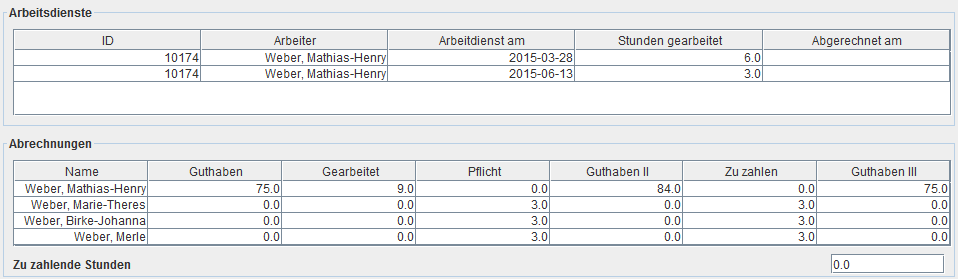
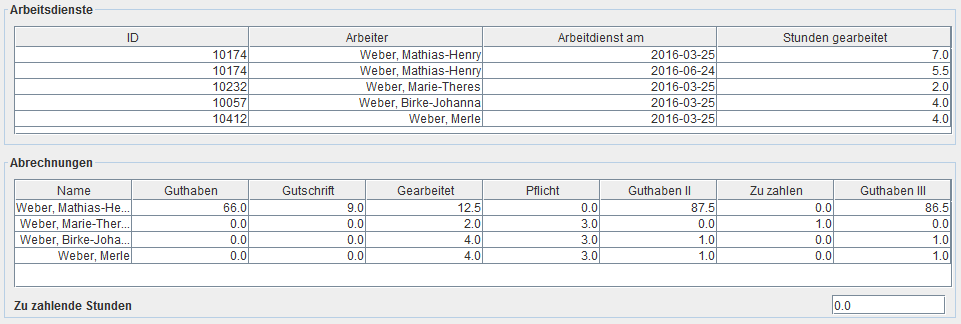
23: Ausgleich- und Korrekturmöglichkeiten: Dokumentation erstellt
Task-Url: http://syniphos/mantisbt/view.php?id=23

Changed region(s): [[0.0, 0.0, 0.999, 0.4588], [0.0, 0.4875, 0.999, 1.0]]

diff --git a/html/usermanual.html b/html/usermanual.html
@@ -462,15 +462,19 @@ body.book #toc,body.book #preamble,body.book h1.sect0,body.book .sect1>h2{page-b
 <li><a href="#_verwaltung_der_arbeitsdienste">5.3. Verwaltung der Arbeitsdienste</a>
 <ul class="sectlevel3">
 <li><a href="#_erfassung_von_arbeitsdienststunden">5.3.1. Erfassung von Arbeitsdienststunden</a></li>
-<li><a href="#_abschluss_eines_abrechnungszeitraumes">5.3.2. Abschluss eines Abrechnungszeitraumes</a></li>
+<li><a href="#_erfassung_von_gutschriften">5.3.2. Erfassung von Gutschriften</a></li>
+<li><a href="#_abschluss_eines_abrechnungszeitraumes">5.3.3. Abschluss eines Abrechnungszeitraumes</a></li>
 </ul>
 </li>
+<li><a href="#_log_ausgaben">5.4. Log-Ausgaben</a></li>
+<li><a href="#_automatisches_update">5.5. Automatisches Update[]</a></li>
 </ul>
 </li>
 <li><a href="#_mögliche_probleme">6. Mögliche Probleme</a>
 <ul class="sectlevel2">
 <li><a href="#_exception_es_läuft_schon_eine_andere_applikation">6.1. Exception "Es läuft schon eine andere Applikation"</a></li>
 <li><a href="#_fehlerhafte_anzeige_von_umlauten">6.2. Fehlerhafte Anzeige von Umlauten</a></li>
+<li><a href="#_programm_update">6.3. Programm-Update</a></li>
 </ul>
 </li>
 </ul>
@@ -673,13 +677,17 @@ Quelldateien:</p>
 angelegt wird, wenn damit begonnen wird, den Abrechnungszeitraum zu
 bearbeiten.</p>
 </dd>
-<dt class="hdlist1">Guthaben.csv (bzw. Guthaben_old.csv)</dt>
+<dt class="hdlist1">(<mark>veraltet</mark>)Guthaben.csv (bzw. Guthaben_old.csv) </dt>
 <dd>
 <p>Beide Dateien sind eine Kopie der Datei "Guthaben.csv" aus dem
 Ordner der vorangegangenen Abrechnungsperiode.
 Bei der Erzeugung der Kopie ohne das Suffix "_old" wird dafür Sorge
 getragen, dass das in der vorherigen Periode errechnete Endguthaben
 für die neue Periode als Anfangsguthaben markiert wird.</p>
+</dd>
+<dt class="hdlist1">GuthabenVerlauf.csv</dt>
+<dd>
+<p>Diese Datei enthält die gesamte Geschichte des Guthabenverlaufes aller Mitglieder.</p>
 </dd>
 <dt class="hdlist1">Arbeitsdienste.csv (bzw. Arbeitsdienste_old.csv)</dt>
 <dd>
@@ -720,11 +728,15 @@ lesend zugegriffen werden.</p>
 </div>
 <div class="dlist">
 <dl>
-<dt class="hdlist1">Guthaben.csv</dt>
+<dt class="hdlist1">(<em>veraltet</em>: Guthaben.csv) GuthabenVerlauf.csv </dt>
 <dd>
 <p>Hier werden die nach Hinzufügen der im Abrechnungszeitraum
 geleisteten Arbeitsdienststunden und Abzug der Pflichtstunden die
 verbleibenden bzw- erwirtschafteten Guthabenstunden hinterlegt.</p>
+</dd>
+<dt class="hdlist1">Guschriften.csv</dt>
+<dd>
+<p>Dies ist eine Liste mit allen Mitgliedern, denen im betreffenden Abrechnungszeitraum eine Gutschrift in Form von Arbeitsstunden wegen früherer Fehlbuchungen gewährt worden ist.</p>
 </dd>
 <dt class="hdlist1">ZuZahlendeStunden.csv</dt>
 <dd>
@@ -799,7 +811,7 @@ Daten einer  abgeschlossenen Periode können nicht mehr verändert werden!</p>
 </div>
 <div class="imageblock" style="text-align: center">
 <div class="content">
-<img src="images/App-Titelleiste.png" alt="App Titelleiste">
+<img src="images/images/App-Titelleiste.png" alt="App Titelleiste">
 </div>
 <div class="title">Abbildung 7. Titelleiste</div>
 </div>
@@ -897,7 +909,7 @@ Daten einer  abgeschlossenen Periode können nicht mehr verändert werden!</p>
 </div>
 <div class="imageblock" style="text-align: center">
 <div class="content">
-<img src="images/App-0-Abrechnungsbereich.png" alt="App 0 Abrechnungsbereich">
+<img src="images/images/App-0-Abrechnungsbereich.png" alt="App 0 Abrechnungsbereich">
 </div>
 <div class="title">Abbildung 10. Abrechnungsbereich</div>
 </div>
@@ -913,6 +925,10 @@ Daten einer  abgeschlossenen Periode können nicht mehr verändert werden!</p>
 <dd>
 <p>Summe der Stunden, die das Mitglied aus der Vergangenheit als Guthaben mit in den Abrechnungszeitraum einbringt.</p>
 </dd>
+<dt class="hdlist1">Gutschrift</dt>
+<dd>
+<p>In diesem Abrechnungszeitraum gutgeschriebene Stunden (aufgrund früherer Fehlbuchungen)</p>
+</dd>
 <dt class="hdlist1">Gearbeitet</dt>
 <dd>
 <p>Summe der Stunden, die das Mitglied innerhalb des Abrechnungszeitraums Arbeitsdienst geleistet hat.</p>
@@ -923,7 +939,7 @@ Daten einer  abgeschlossenen Periode können nicht mehr verändert werden!</p>
 </dd>
 <dt class="hdlist1">Guthaben II</dt>
 <dd>
-<p>Summe aus der Spalte <mark>Guthaben</mark> und der Spalte <mark>Gearbeitet</mark> des betreffenden Mitglieds.</p>
+<p>Summe aus den Spalten <mark>Guthaben</mark>, <mark>Gutschrift</mark> und <mark>Gearbeitet</mark> des betreffenden Mitglieds.</p>
 </dd>
 <dt class="hdlist1">Zu zahlen</dt>
 <dd>
@@ -986,7 +1002,7 @@ Alle dann folgenden Berechnungen werden ab dann basierend auf dem Stand der neue
 </div>
 <div class="imageblock" style="text-align: center">
 <div class="content">
-<img src="images/AppAD-0.png" alt="AppAD 0">
+<img src="images/images/AppAD-0.png" alt="AppAD 0">
 </div>
 <div class="title">Abbildung 12. Fenster "Arbeitsdienste"</div>
 </div>
@@ -1078,7 +1094,28 @@ Die neu erfassten Daten sind bis zu diesem Punkt nur auf dem lokalen Rechner ges
 </div>
 </div>
 <div class="sect3">
-<h4 id="_abschluss_eines_abrechnungszeitraumes"><a class="anchor" href="#_abschluss_eines_abrechnungszeitraumes"></a>5.3.2. Abschluss eines Abrechnungszeitraumes</h4>
+<h4 id="_erfassung_von_gutschriften"><a class="anchor" href="#_erfassung_von_gutschriften"></a>5.3.2. Erfassung von Gutschriften</h4>
+<div class="paragraph">
+<p>Wenn festgestellt worden ist, dass bei einem Mitglied in der Vergangenheit ein Fehler in der Berechnung bzw. Abbuchung vorlag, besteht die Möglichkeit, Gutschriften zu erfassen. Eine Gutschrift erfolgt in Stunden.</p>
+</div>
+<div class="paragraph">
+<p>Die Erfassung von Gutschriften ist praktisch identisch mit der der Arbeitsstunden.</p>
+</div>
+<div class="imageblock" style="text-align: center">
+<div class="content">
+<img src="images/AppGS-0-neu.png" alt="AppGS 0 neu">
+</div>
+<div class="title">Abbildung 15. Neue Gutschrift</div>
+</div>
+<div class="paragraph">
+<p>Der wesentliche Unterschied ist, dass es immer nur eine Gutschrift pro Mitglied und Abrechnungszeitraum geben kann und der Termin immer fest auf den Beginn des Abrechnungszeitraum gelegt wird.</p>
+</div>
+<div class="paragraph">
+<p>Für jede Gutschrift ist ein Kommentar anzulegen, der erläutert, warum die Gutschrift gewährt worden ist.</p>
+</div>
+</div>
+<div class="sect3">
+<h4 id="_abschluss_eines_abrechnungszeitraumes"><a class="anchor" href="#_abschluss_eines_abrechnungszeitraumes"></a>5.3.3. Abschluss eines Abrechnungszeitraumes</h4>
 <div class="paragraph">
 <p>Ist sichergestellt, dass alle Arbeitsdiensttermine eines Abrechnungszeitraumes vollständig erfasst sind, kann der Zeitraum abgeschlossen werden. Dazu ist im <a href="#_hauptfenster">Hauptfenster</a> der Knopf <kbd>Zeitraum abschließen</kbd> zu drücken.</p>
 </div>
@@ -1115,6 +1152,35 @@ Bereits diese Aktion wird selbstverständlich als Veränderung der lokalen Daten
 </div>
 </div>
 </div>
+<div class="sect2">
+<h3 id="_log_ausgaben"><a class="anchor" href="#_log_ausgaben"></a>5.4. Log-Ausgaben</h3>
+<div class="paragraph">
+<p>Das Programm erzeugt während des Laufes einige Log-Ausgaben. Diese gehen einerseits in eine Datei und können andererseits auch in einem Fenster sichtbar gemacht werden. Das Fenster ist bei Programmstart aktiviert und kann gefahrlos geschlossen werden. Es kann jederzeit über das Menu
+ <kbd>Aktionen/Zeige Logausgaben</kbd> wiederhergestellt werden.</p>
+</div>
+<div class="paragraph">
+<div class="title">Fenster der Log-Ausgaben</div>
+<p>image::App-0-LogWindow.png</p>
+</div>
+</div>
+<div class="sect2">
+<h3 id="_automatisches_update"><a class="anchor" href="#_automatisches_update"></a>5.5. Automatisches Update[]</h3>
+<div class="paragraph">
+<p>Das Programm überprüft, ob auf dem Server eine neuere als die installierte Version bereitsteht. Ist das der Fall, öffnet sich ein Fenster, in dem die neue Version angekündigt und vorgestellt wird:</p>
+</div>
+<div class="imageblock">
+<div class="content">
+<img src="images/App-0-Update.png" alt="App 0 Update">
+</div>
+<div class="title">Abbildung 16. Update-Fenster</div>
+</div>
+<div class="paragraph">
+<p>Soweit keine gewichtigen Gründe dagegen sprechen, sollte <em>immer</em> die neueste Version installiert werden.</p>
+</div>
+<div class="paragraph">
+<p>Der automatische Neustart nach der Installation einer neuen Programmversion schlägt aktuell immer fehl. Das Programm muss dann manuell noch einmal gestartet werden.</p>
+</div>
+</div>
 </div>
 </div>
 <div class="sect1">
@@ -1126,7 +1192,7 @@ Bereits diese Aktion wird selbstverständlich als Veränderung der lokalen Daten
 <div class="content">
 <img src="images/Exception-AppLaeuftSchon.png" alt="Exception AppLaeuftSchon">
 </div>
-<div class="title">Abbildung 15. Es läuft schon eine andere Applikation</div>
+<div class="title">Abbildung 17. Es läuft schon eine andere Applikation</div>
 </div>
 <div class="paragraph">
 <p>Das Programm hinterlässt eine Spur auf dem Server, dass es läuft. Wenn also irgendwo auf der Welt jemand anderes gerade mit dem Programm arbeitet, kann kein zweites Programm gestartet werden. In der Fehlermeldung wird in der ersten Zeile angegeben, wer gerade mit dem Programm arbeitet.</p>
@@ -1154,13 +1220,19 @@ In so einem Fall einfach das Programm nach ca. 10 Sekunden Wartezeit erneut star
 <p>Leider werden in manchen Dialogen die deutschen Umläute nicht korrekt angezeigt. Ich habe bislang kein Mittel gefunden, wie ich es hinbekomme, dass die Sonderzeichen sowohl in der Log-Datei wie auch in der Bedienoberfläche korrekt angezeigt werden. Ich werde mich weiter bemühen, aber das hat mindere Priorität.</p>
 </div>
 </div>
+<div class="sect2">
+<h3 id="_programm_update"><a class="anchor" href="#_programm_update"></a>6.3. Programm-Update</h3>
+<div class="paragraph">
+<p>Der automatische Neustart nach Installation einer neuen Programmversion schlägt aktuell immer fehl. Das Programm muss dann manuell noch einmal gestartet werden.</p>
+</div>
+</div>
 </div>
 </div>
 </div>
 <div id="footer">
 <div id="footer-text">
 Version 1.0<br>
-Erstellt mit Asciidoctor v1.5.3 : Zuletzt geändert: 2016-11-20 15:19:35 +01:00
+Erstellt mit Asciidoctor v1.5.3 : Zuletzt geändert: 2017-03-12 12:45:23 +01:00
 </div>
 </div>
 <link rel="stylesheet" href="https://cdnjs.cloudflare.com/ajax/libs/highlight.js/8.9.1/styles/github.min.css">

diff --git a/html/developers-guide.html b/html/developers-guide.html
@@ -435,7 +435,11 @@ body.book #toc,body.book #preamble,body.book h1.sect0,body.book .sect1>h2{page-b
 <ul class="sectlevel1">
 <li><a href="#_entwicklungsumgebung_2">1. Entwicklungsumgebung</a>
 <ul class="sectlevel2">
-<li><a href="#_eclipse">1.1. Eclipse</a></li>
+<li><a href="#_eclipse">1.1. Eclipse</a>
+<ul class="sectlevel3">
+<li><a href="#_bugtracking">1.1.1. Bugtracking</a></li>
+</ul>
+</li>
 <li><a href="#_gradle">1.2. Gradle</a></li>
 </ul>
 </li>
@@ -466,7 +470,19 @@ body.book #toc,body.book #preamble,body.book h1.sect0,body.book .sect1>h2{page-b
 <div class="sectionbody">
 <div class="sect2">
 <h3 id="_eclipse"><a class="anchor" href="#_eclipse"></a>1.1. Eclipse</h3>
-
+<div class="sect3">
+<h4 id="_bugtracking"><a class="anchor" href="#_bugtracking"></a>1.1.1. Bugtracking</h4>
+<div class="paragraph">
+<p>Zur Fehlerverfolgung wird
+<a href="http://www.mantisbt.org/index.php">Mantis</a>
+eingesetzt.</p>
+</div>
+<div class="paragraph">
+<p>Für den direkten Zugang aus Eclipse heraus gibt es einen
+<a href="https://marketplace.eclipse.org/content/mylyn-mantis-connector">Mylyn-Connector</a>,
+den man direkt aus dem MarketPlace installieren kann.</p>
+</div>
+</div>
 </div>
 <div class="sect2">
 <h3 id="_gradle"><a class="anchor" href="#_gradle"></a>1.2. Gradle</h3>
